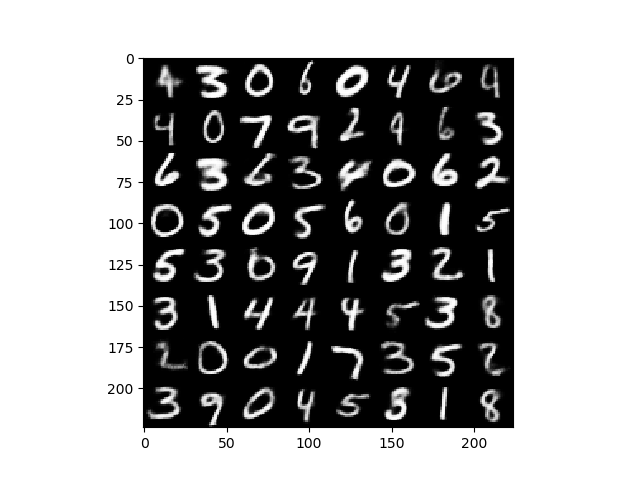
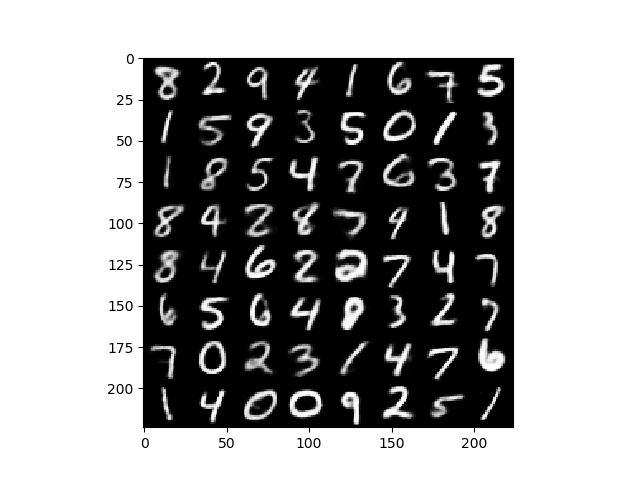
add Gaussian decoding network

Changed region(s): [[0.2188, 0.125, 0.8125, 0.9062], [0.75, 0.8125, 0.7812, 0.875]]

diff --git a/VAE.py b/VAE.py
@@ -12,6 +12,7 @@ from DataLoader import DataLoader
 
 flags = tf.app.flags
 flags.DEFINE_string('datafile', 'mnist_all.mat', 'Name of data file')
+flags.DEFINE_string('decoder', 'Bernoulli', 'optional, Bernoulli or Gaussian')
 flags.DEFINE_integer('hidden_layer_neurons', 500, 'Number of hidden layer neurons')
 flags.DEFINE_integer('z_dim', 10, 'Latent variable dimension')
 flags.DEFINE_integer('batch_size', 64, 'Minibatch size')
@@ -46,15 +47,15 @@ def encoding_network(X, hidden_layer_neurons, latent_dim, reg_coef):
     GuassianParameters = tfl.dense(dense2, 2 * latent_dim,  
                                    kernel_initializer=tfc.layers.variance_scaling_initializer())
     mean_vector = GuassianParameters[: ,: latent_dim]
-    std_vector = tf.nn.softplus(GuassianParameters[: , latent_dim: ])
-    KL_divergence = 0.5 * tf.reduce_sum(1 + tf.log(tf.square(std_vector)) - tf.square(std_vector) - tf.square(mean_vector))
+    var_vector = tf.nn.softplus(GuassianParameters[: , latent_dim: ])
+    KL_divergence = 0.5 * tf.reduce_sum(1 + tf.log(var_vector) - var_vector - tf.square(mean_vector))
 
     # reparameterization trick
-    sampled_z = tf.multiply(std_vector, tf.random_normal(mean_vector.shape)) + mean_vector
+    sampled_z = tf.multiply(tf.sqrt(var_vector), tf.random_normal(mean_vector.shape)) + mean_vector
     return KL_divergence, sampled_z
 
-def decoding_network(X, z, hidden_layer_neurons, reg_coef):
-    r"""This network decodes z into X.
+def Bernoulli_decoding_network(X, z, hidden_layer_neurons, reg_coef):
+    r"""This network decodes z into X (Bernoulli version).
 
     Args:
       X: A pixel matrix.
@@ -82,6 +83,32 @@ def decoding_network(X, z, hidden_layer_neurons, reg_coef):
     marginal_likelihood = -tf.reduce_sum(xent)
     return generated_X, marginal_likelihood
 
+def Gaussian_decoding_network(X, z, hidden_layer_neurons, reg_coef):
+    r"""This network decodes z into X (Guassian version).
+
+    Args:
+      X: A pixel matrix.
+      z: Latent variables generated by encoder.
+      hidden_layer_neurons: Number of hidden layer neurons.
+      reg_coef: Regularization coefficient.
+
+    Returns:
+      generated_X: Generated X by decoding z.
+      marginal_likelihood: Reconstruction error estimation.
+    """
+    h = tfl.dense(z, hidden_layer_neurons, activation=tf.tanh, 
+                  kernel_initializer=tfc.layers.variance_scaling_initializer(),
+                  kernel_regularizer=tfc.layers.l2_regularizer(reg_coef))
+
+    GuassianParameters = tfl.dense(h, 2 * X.shape[1],  
+                                   kernel_initializer=tfc.layers.variance_scaling_initializer())
+    mean_vector = GuassianParameters[: ,: X.shape[1]]
+    var_vector = tf.nn.softplus(GuassianParameters[: , X.shape[1]: ])
+
+    generated_X = tf.multiply(tf.sqrt(var_vector), tf.random_normal(mean_vector.shape)) + mean_vector
+    marginal_likelihood = -0.5 * tf.reduce_sum(tf.log(2 * np.pi * var_vector) + tf.square(X - mean_vector) / var_vector)
+    return generated_X, marginal_likelihood
+
 def train(X):
     r"""Optimization over variational lower bound.
 
@@ -97,11 +124,15 @@ def train(X):
       VLB: Variational lower bound.
       train_step: Optimization step.
     """
+    if FLAGS.decoder == 'Bernoulli':
+        decoding_network = Bernoulli_decoding_network
+    elif FLAGS.decoder == 'Gaussian':
+        decoding_network = Gaussian_decoding_network
     KL_divergence, sampled_z = encoding_network(X, FLAGS.hidden_layer_neurons, 
                                                 FLAGS.z_dim, FLAGS.reg_coef)
     generated_X, marginal_likelihood = decoding_network(X, sampled_z, 
-                                                        FLAGS.hidden_layer_neurons, 
-                                                        FLAGS.reg_coef)
+                                                                 FLAGS.hidden_layer_neurons, 
+                                                                 FLAGS.reg_coef)
     VLB = KL_divergence + marginal_likelihood
     train_step = tft.AdamOptimizer(FLAGS.learning_rate).minimize(-VLB)
     return KL_divergence, generated_X, marginal_likelihood, VLB, train_step
@@ -142,7 +173,7 @@ if __name__ == '__main__':
                     plt.imshow(combine(_test_batch, _image_size, FLAGS.side_length, FLAGS.side_length), cmap='gray')
                     plt.savefig('.\\results\\original_X.png')
                 else:
-                    # Note that _generated_X should be "sigmoided" before mapped into a picure.
+                    # Note that _generated_X should be "sigmoided" before mapped into a picture.
                     _generated_batch = scs.expit(sess.run(_generated_X, feed_dict={_X: _test_batch}))
                     plt.imshow(combine(_generated_batch, _image_size, FLAGS.side_length, FLAGS.side_length), cmap='gray')
                     plt.savefig('.\\results\\generated_X_epoch_' + str(epoch) + '.png')

diff --git a/DataLoader.py b/DataLoader.py
@@ -11,7 +11,7 @@ class DataLoader(object):
       train_images_per_digit: Number of training pictures loaded per digit.
       test_images_per_digit: Number of test pictures loaded per digit.
     """
-    def __init__(self, dataFile, dataPath='.\data\\',  
+    def __init__(self, dataFile, dataPath='.\\data\\',  
                  train_images_per_digit=5000, test_images_per_digit=800):
         self.dataPath = os.path.join(dataPath, dataFile)
         self.train_images_per_digit = train_images_per_digit

diff --git a/debug.py b/debug.py
@@ -1,0 +1,10 @@
+import numpy as np
+
+shape = (64, 784)
+
+mean_vector = np.random.normal(size=shape)
+var_vector = np.log(np.exp(np.random.normal(size=shape)) + 1)
+
+X = np.random.normal(size=shape)
+marginal_likelihood = -0.5 * np.sum(np.log(2 * np.pi * var_vector) + np.square(X - mean_vector) / var_vector)
+print(marginal_likelihood)
